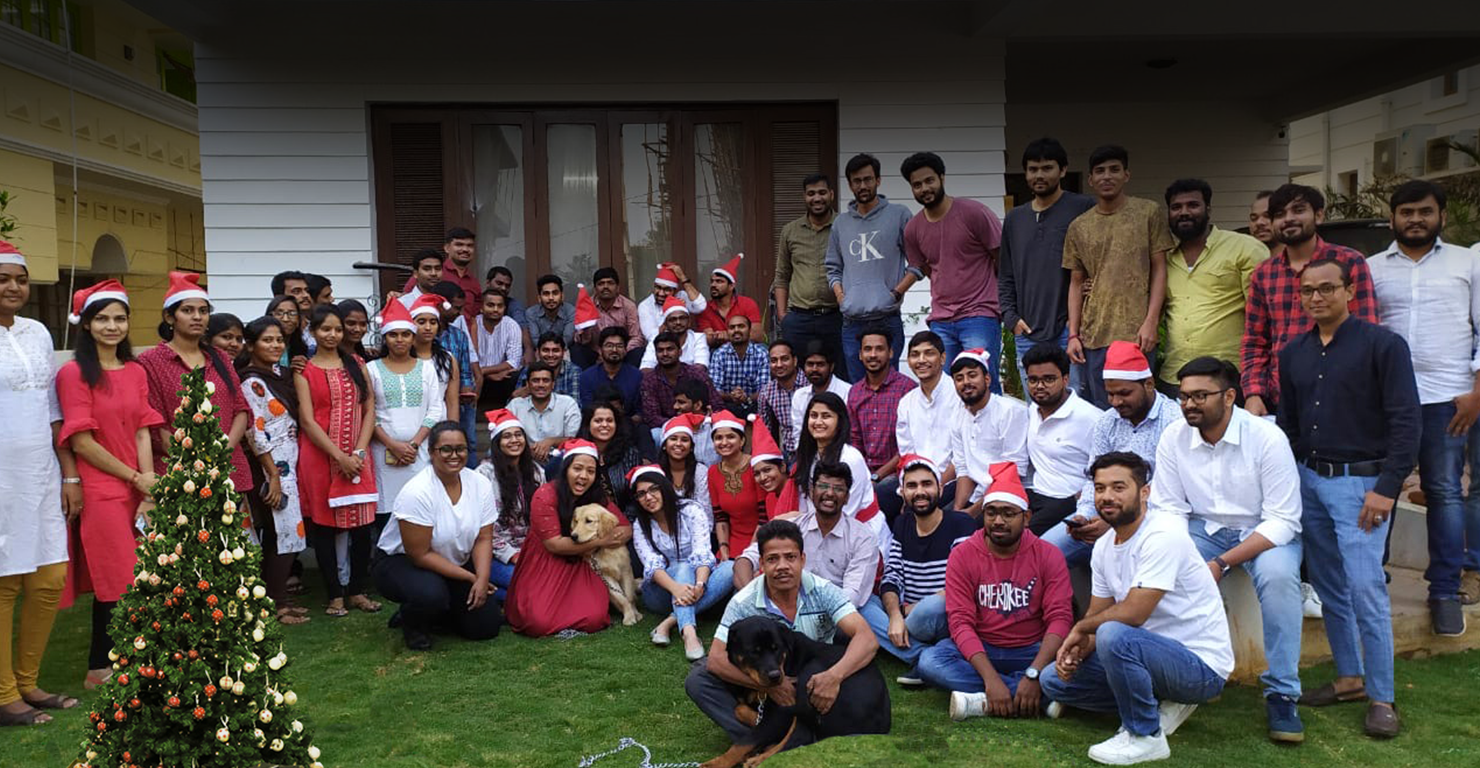
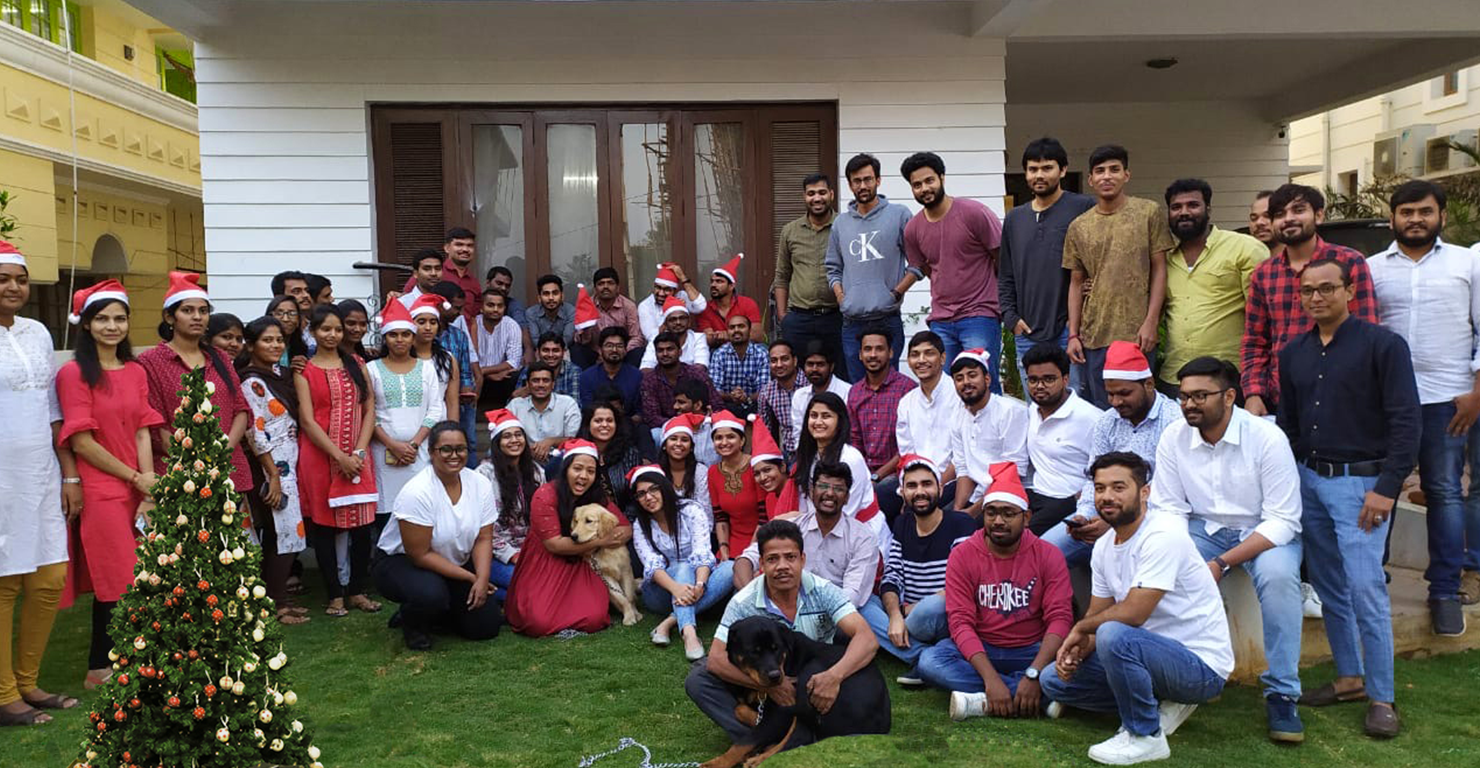
update

Changed region(s): [[0.0, 0.0, 1.0, 0.375]]

diff --git a/css/style.css b/css/style.css
@@ -1603,7 +1603,7 @@ html {
     left: 0;
     top: 0;
     background: rgb(0 0 0 / 78%);
-    opacity: 0.5;
+    opacity: 0.1;
     content: '';
 }
 .hero-abt-img .border-line{
